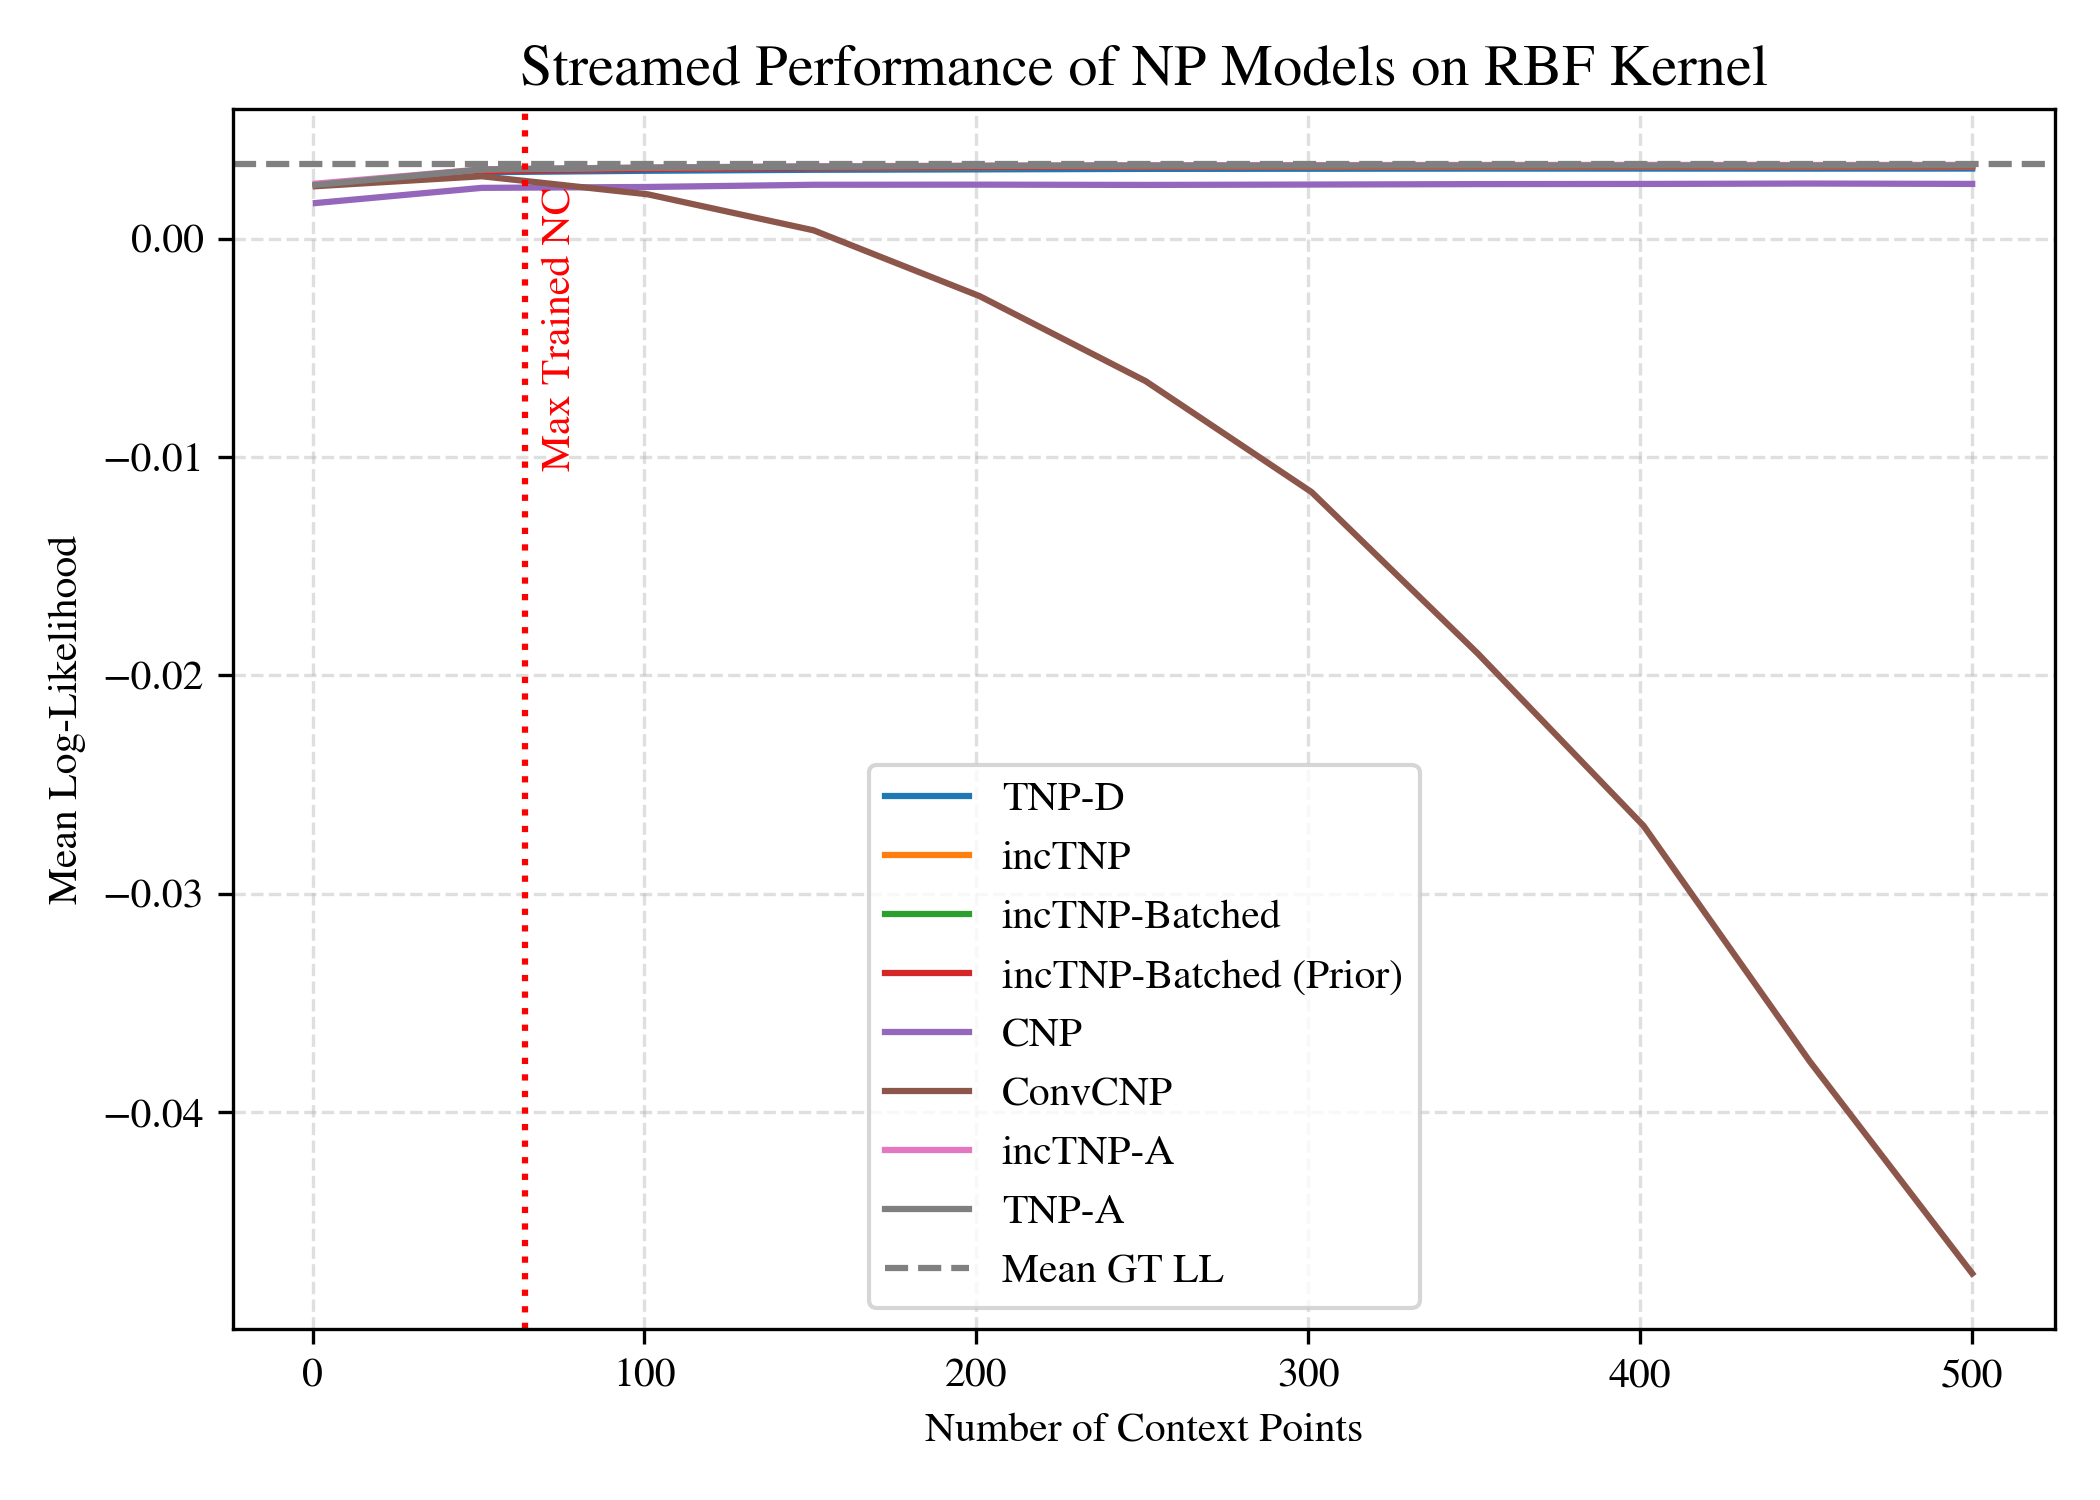
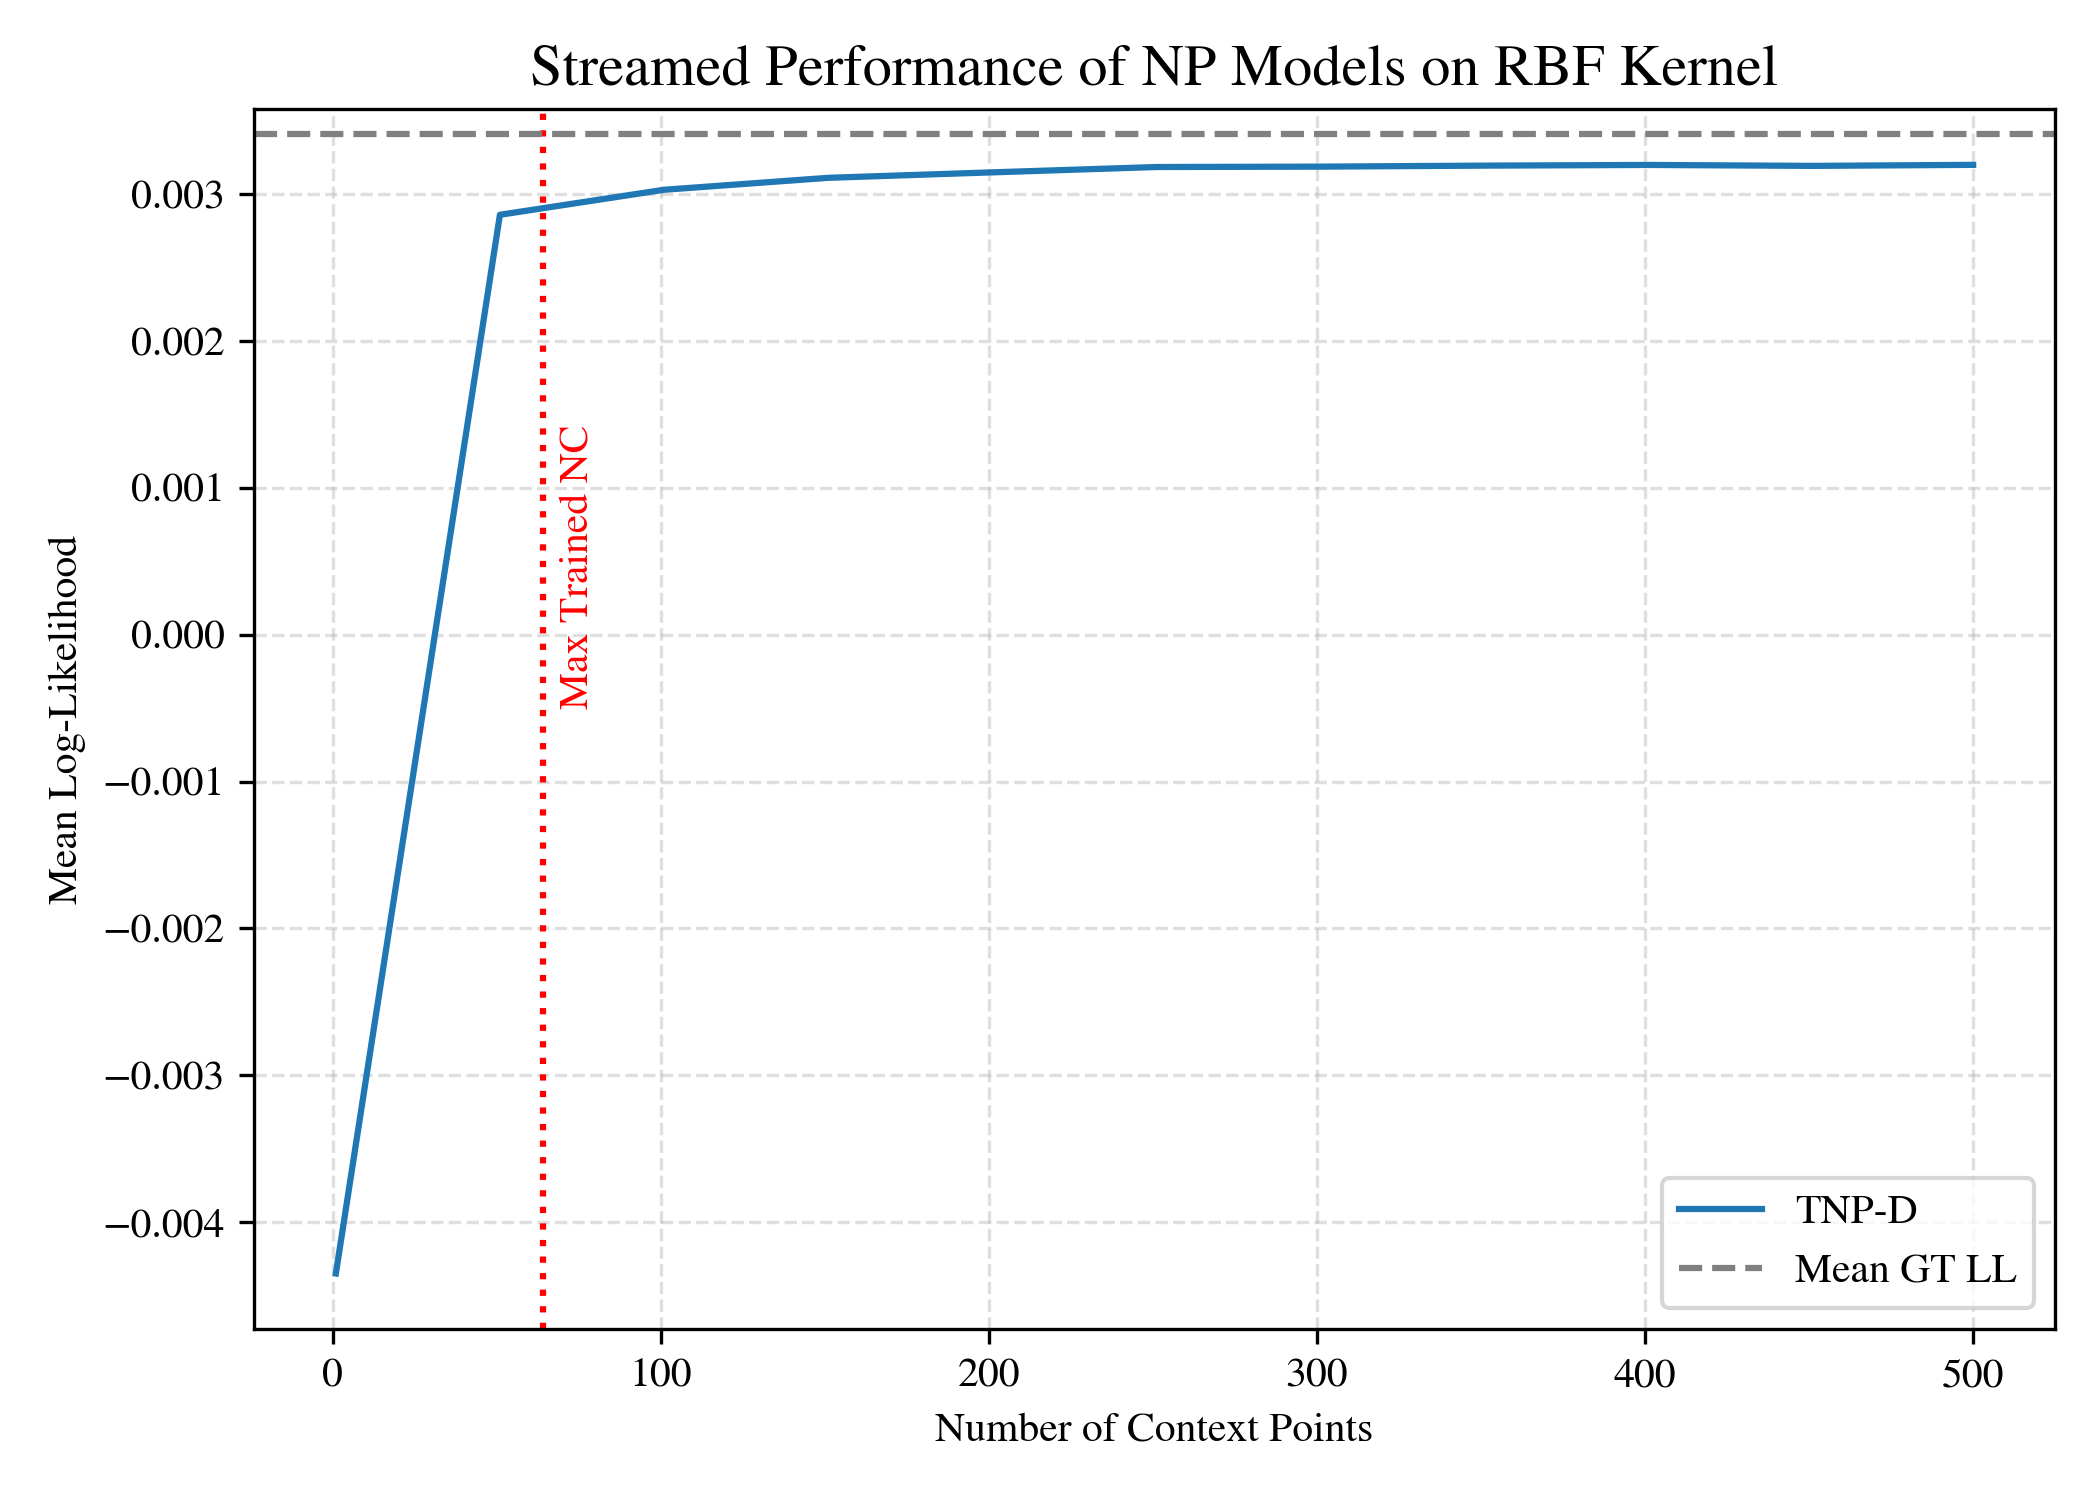
Config for shorter run

diff --git a/experiments/llstream.py b/experiments/llstream.py
@@ -15,6 +15,7 @@ import matplotlib.pyplot as plt
 import matplotlib
 from tqdm import tqdm
 from arnp import ar_loglik
+import json
 
 
 matplotlib.rcParams["mathtext.fontset"] = "stix"
@@ -114,7 +115,8 @@ def get_model_list_combined():
     models_ar = [ar_tnp, ar_inctnp, ar_batchedtnp, ar_priorbatched, ar_cnp, ar_conv_cnp]
     # Return
     models_combined = models_plain + models_ar + models_a
-    return models_ar + models_a
+    model_cust = [tnp_plain, incTNP, batchedTNP, priorBatched, inctnpa, tnpa, ar_tnp, ar_inctnp, ar_batchedtnp, ar_priorbatched, ar_cnp, cnp]
+    return models_combined
 
 def get_model_list_rbf():
     # List of models to compare trained on rbf kernel
@@ -153,20 +155,21 @@ def get_model_list_rbf():
     models_ar = [ar_tnp, ar_inctnp, ar_batchedtnp, ar_priorbatched, ar_cnp, ar_conv_cnp]
     # Return
     models_combined = models_plain + models_ar + models_a
-    return models_ar + models_a
+    model_cust = [tnp_plain, incTNP, batchedTNP, priorBatched, inctnpa, tnpa, ar_tnp, ar_inctnp, ar_batchedtnp, ar_priorbatched, ar_cnp, cnp]
+    return models_combined
 
 
 def stream_data_test_rbf():
     # Hypers
-    burn_in = 0
+    burn_in = 1
     aggregate_over = 1
     batch_size = 16
-    max_batches = 1 # Set to None for no limit
-    max_nc = 500
+    max_batches = 6 # Set to None for no limit
+    max_nc = 1_000
     nt = 128
     start_ctx = 1
     end_ctx = max_nc
-    ctx_step = 50
+    ctx_step = 1
     trained_ctx_end = 64
     device="cuda"
     folder = "experiments/plot_results/llstream/"
@@ -176,15 +179,15 @@ def stream_data_test_rbf():
 
 def stream_data_test_combined():
     # Hypers
-    burn_in = 0
+    burn_in = 1
     aggregate_over = 1
     batch_size = 16
-    max_batches = 1 # Set to None for no limit
-    max_nc = 500
+    max_batches = 6 # Set to None for no limit
+    max_nc = 1_000
     nt = 128
     start_ctx = 1
     end_ctx = max_nc
-    ctx_step = 50
+    ctx_step = 1
     trained_ctx_end = 64
     device="cuda"
     folder = "experiments/plot_results/llstream/"
@@ -270,10 +273,46 @@ def stream_data_test(dataset, models, max_nc, nt, start_ctx, end_ctx, ctx_step, 
     ll_list = np.mean(ll_list, axis=(2, 3))
     gt_average = np.mean(gt_lls, axis=0)
     condition_time_list = np.mean(condition_time_list, axis=(2, 3))
+
+    # Saves data to output file to be used when plotting
+    file_name_npz = f'npz_kernel_{kernel_name}.npz'
+    npz_arr_path = folder + file_name_npz
+    np.savez(npz_arr_path, ll=ll_list, ctx=ctx, time=condition_time_list)
+    json_file_path = folder + f'json_{kernel_name}.json'
+    summary_meta = {
+        "model_names": [m[2] for m in models],
+        "trained_ctx_end": trained_ctx_end,
+        "gt_average_ll": gt_average,
+        "kernel_name": kernel_name,
+        "npz_path": npz_arr_path,
+        "folder": folder,
+    }
+    with open(json_file_path, 'w') as fileobj:
+        json.dump(summary_meta, fileobj, indent=4)
+    print(f"Summary at {json_file_path}")
+    
+    plot_saved_info(json_file_path)
+
+
+def plot_saved_info(json_path):
+    with open(json_path, 'r') as fileobj:
+        metadata = json.load(fileobj)
+    model_names = metadata['model_names']
+    trained_ctx_end = metadata['trained_ctx_end']
+    gt_average = metadata['gt_average_ll']
+    kernel_name = metadata['kernel_name']
+    folder = metadata['folder']
+    npz_path = metadata['npz_path']
+    # Loads np arrays
+    data = np.load(npz_path)
+    ll_list = data['ll']
+    condition_time_list = data['time']
+    ctx = data['ctx']
+
     # Plots LL as context size increases - red dotted line to show when going beyond trained context size
     ll_file_name = folder + f'll_kernel_{kernel_name}.png'
     fig, ax = plt.subplots(figsize=(7, 5))
-    for model_idx, (model_yml, model_wab, model_name, use_ar) in enumerate(models):
+    for model_idx, model_name in enumerate(model_names):
         ax.plot(ctx, ll_list[model_idx], label=model_name)
     ax.axvline(x=trained_ctx_end, color='red', linestyle=':')
     ax.axhline(y=gt_average, color='grey', linestyle='--', label='Mean GT LL')
@@ -288,7 +327,7 @@ def stream_data_test(dataset, models, max_nc, nt, start_ctx, end_ctx, ctx_step, 
     # Plots conditioning time vs number of context points
     runtime_file_name = folder + f'runtime_kernel_{kernel_name}.png'
     fig, ax = plt.subplots(figsize=(7, 5))
-    for model_idx, (model_yml, model_wab, model_name, use_ar) in enumerate(models):
+    for model_idx, model_name in enumerate(model_names):
         ax.plot(ctx, condition_time_list[model_idx], label=model_name)
     ax.set_xlabel('Number of Context Points')
     ax.set_ylabel('Mean Conditioning Time (ms)')
@@ -298,7 +337,7 @@ def stream_data_test(dataset, models, max_nc, nt, start_ctx, end_ctx, ctx_step, 
     fig.tight_layout()
     plt.savefig(runtime_file_name, dpi=300)
 
-                
+
 
 if __name__ == "__main__":
     stream_data_test_rbf()
